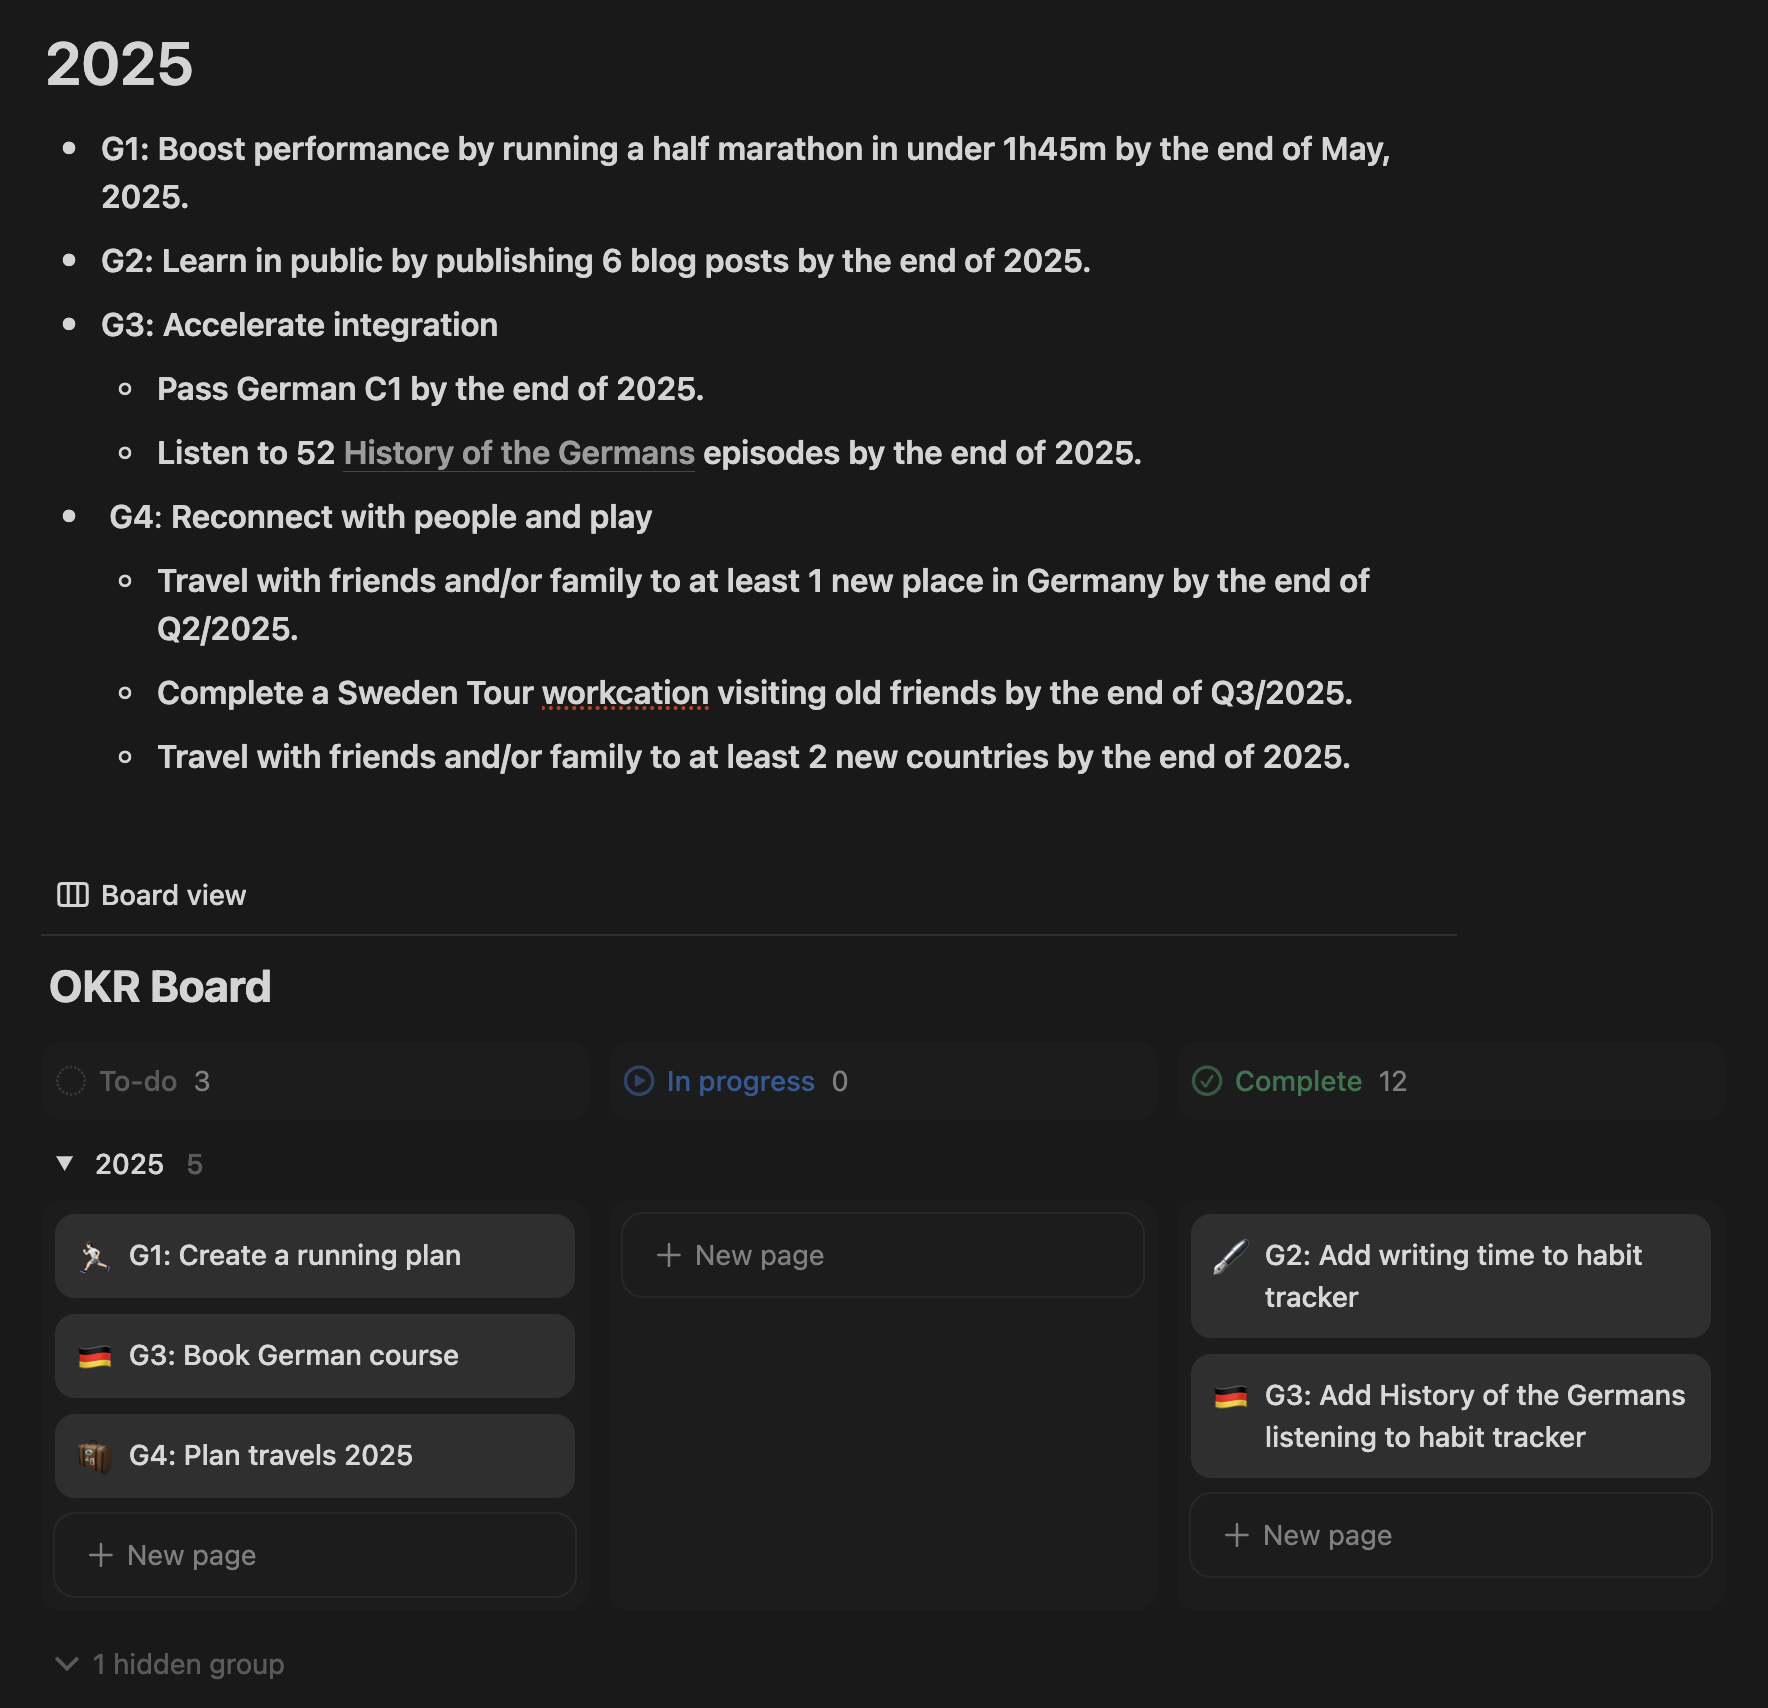
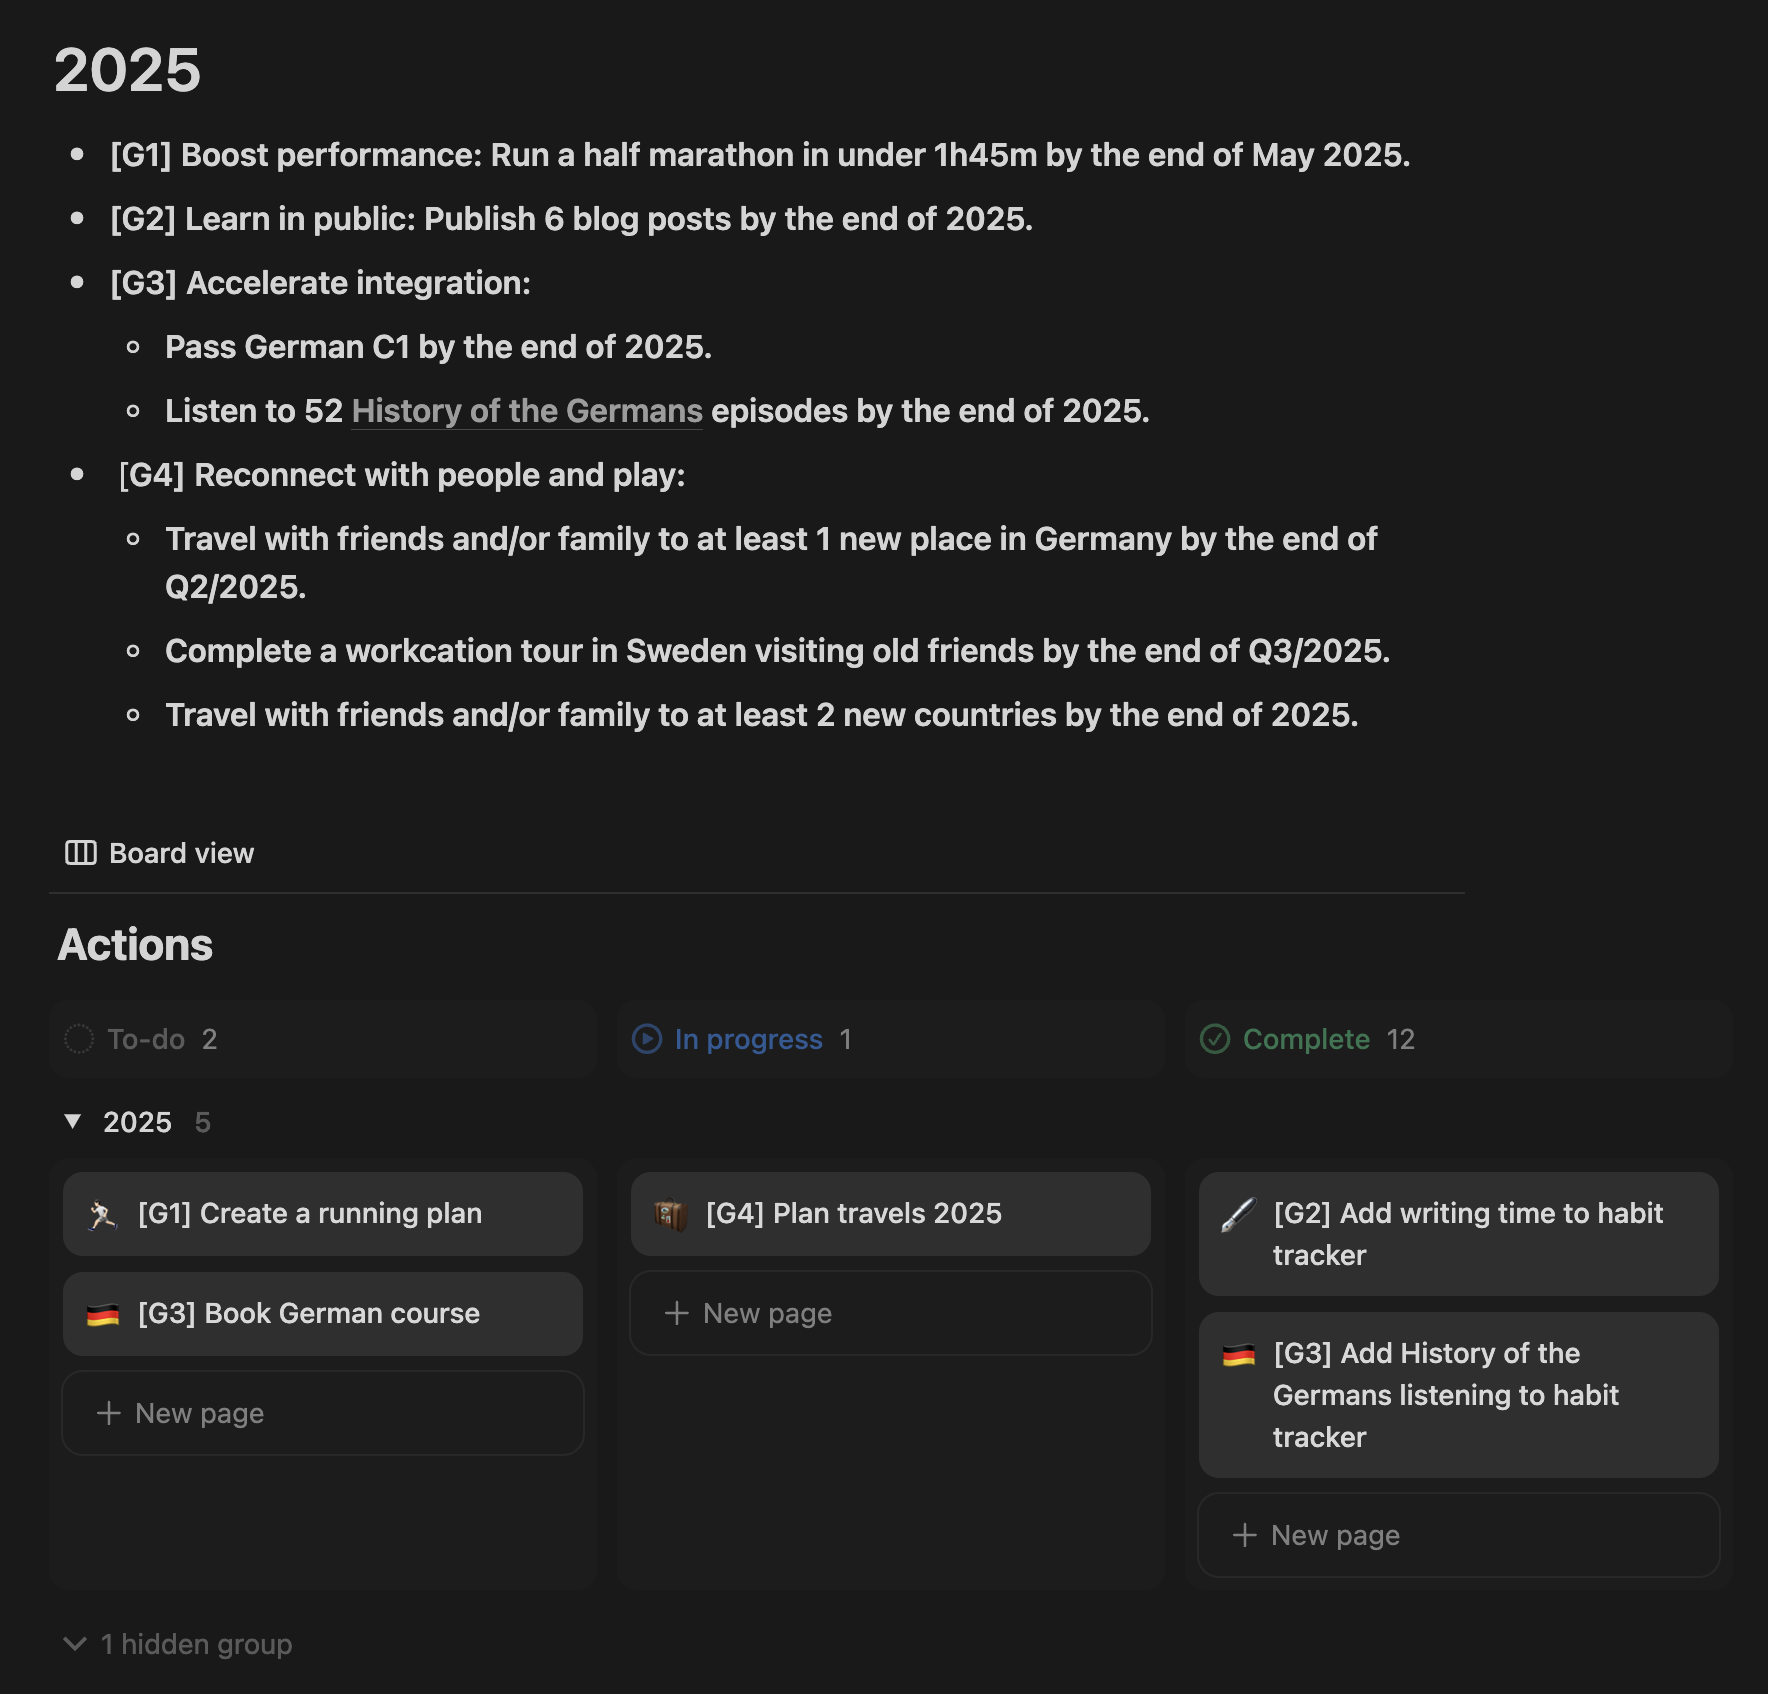
feat: edit goals 2025 post

diff --git a/content/on/goals-2025.md b/content/on/goals-2025.md
@@ -1,5 +1,5 @@
 +++
-title = '2024 in review and goals for 2025'
+title = 'Annual review 2024/25'
 date = 2024-12-29T10:34:58+01:00
 tags = ['Personal Growth', 'Annual Review']
 summary = 'Reviewing how I progressed on my 2024 goals and setting the focus for 2025.'
@@ -10,57 +10,57 @@ draft = false
 >
 > -- Dwight Eisenhower
 
-Planning ahead is not trivial, and it's easy to get the goals wrong, but the exercise of reflecting and setting goals is valuable in itself. There are many ways to do this, and I've previously written about [the process](/on/setting-goals-for-2024/#process) I follow. Doing this in public helps to keep me accountable.
+Planning ahead is not trivial, and it's easy to get the goals wrong, but the exercise of reflecting and setting goals is valuable in itself. There are many ways to do this, and I've previously written about [the process](/on/goals-2024/#process) I follow. Doing this in public helps to keep me accountable.
 
-My primary [focus for 2024](/on/setting-goals-for-2024/#goals-2024) was to establish healthy routines to strengthen my resilience, improve my well-being, and further my career. It turned out to be a turbulent year and I had to adjust my plan and deprioritize a few goals, but looking back, I'm happy with the overall progress.
+My primary [focus for 2024](/on/goals-2024/#goals-2024) was to establish healthy routines to strengthen my resilience, improve my well-being, and further my career. It turned out to be a turbulent year and I had to adjust my plan and deprioritize a few goals, but looking back, I'm happy with the overall progress.
 
 ## Review: Goals 2024
 
-- **[GROWTH] Publish 1 blog post per month on average.**
+- **[ <span style="font-size: 10px;background-color: darkseagreen;">GROWTH</span> ] Publish 1 blog post per month on average.**
 
-<span style="color: red;">42% completed.</span>
+Completion: <span style="color: red;">42%</span>
 
 I kept the routine of writing regularly during Q1 but then dropped it as work consumed an increasing amount of my time. I'll carry over this goal into 2025 and make another attempt, but lower my target to 6 posts during the year.
 
-- **[GROWTH]** **Read 3 self-help books on self-esteem, social anxiety, and perfectionism.**
+- **[ <span style="font-size: 10px;background-color: darkseagreen;">GROWTH</span> ]** **Read 3 self-help books on self-esteem, social anxiety, and perfectionism.**
 
-<span style="color: red;">33% completed.</span>
+Completion: <span style="color: red;">33%</span>
 
 I only read one of the books, the one on self-esteem, and it was helpful. In fact, it helped me work on some limiting behaviors and now I feel it's not a prioritized area anymore. Perhaps I'll return to the other books in the future, but for now I'll drop the goal on behalf of other priorities.
 
-- **[WORK] Have one work-free day per weekend and proper lunch breaks.**
+- **[ <span style="font-size: 10px;background-color: silver;">WORK</span> ] Have one work-free day per weekend and proper lunch breaks.**
 
-<span style="color: red;">40% completed.</span>
+Completion: <span style="color: red;">40%</span>
 
-I didn't track this so the completion rate is an assessment (note to self to ensure the goals are measurable). The objective was however to include more self-care and breaks during normal work. For most of the year I didn't manage due to a variety of reasons, but I've worked more actively by adjusting my routines and recently it's become better. I'll drop it as a goal since I don't track it but I might rephrase.
+I didn't track this so the completion rate is an assessment (note to self to ensure the goals are measurable). The objective was to include more self-care and breaks during normal work. For most of the year I didn't manage due to a variety of reasons, but I've worked more actively by adjusting my routines and recently it's become better. I'll drop it as a goal since I don't track it but I might rephrase.
 
-- **[WORK] Explore the manager role again.**
+- **[ <span style="font-size: 10px;background-color: silver;">WORK</span> ] Explore the manager role again.**
 
-<span style="color: green;">100% completed.</span>
+Completion: <span style="color: green;">100%</span>
 
 Due to some changes at work I got the opportunity to transition back to the managerial track in the beginning of the year. It's been both daunting and exciting, but I'm grateful for all the support I've received and everything I've learned. I'm enjoying the track and set to stay on it for the foreseeable future.
 
-- **[HEALTH]** **Drink a maximum of 5 drinks per week on average.**
+- **[ <span style="font-size: 10px;background-color: lightcoral;">HEALTH</span> ]** **Drink a maximum of 5 drinks per week on average.**
 
-<span style="color: green;">80% completed.</span>
+Completion: <span style="color: green;">80%</span>
 
 I maintained much healthier baseline for drinking, and I feel much better and more productive. My relationship to alcohol has changed profoundly, so I consider this goal completed. I'll keep tracking my drinking but I'll transition the goal to business as usual.
 
-- **[RELATIONSHIPS]** **Do a minimum of 2 out-of-routine experiences per month on average with my partner.**
+- **[ <span style="font-size: 10px;background-color: lightskyblue;">RELATIONSHIPS</span> ]** **Do a minimum of 2 out-of-routine experiences per month on average with my partner.**
 
-<span style="color: green;">90% completed.</span>
+Completion: <span style="color: green;">90%</span>
 
 It feels good to have taken a more active stance to evolve our relationship by trying new wines and restaurants, going to sports event and concerts, and traveling more. After having worked on this deliberately this has become a standard and business as usual.
 
-- **[PLAY] Play the trumpet for 30 minutes weekly.**
+- **[ <span style="font-size: 10px;background-color: violet;">PLAY</span> ] Play the trumpet for 30 minutes weekly.**
 
-<span style="color: red;">43% completed.</span>
+Completion: <span style="color: red;">43%</span>
 
 I kept the routine for most parts of the first half of the year but then it slowly became less and less. This was an example of making something that should be fun and joyful feel like a burden after setting goals around the routine. I'll drop it as a goal but hopefully pick up the trumpet from time to time nevertheless.
 
-- **[WEALTH] Save at least 45% of my net salary per month.**
+- **[ <span style="font-size: 10px;background-color: gold;">WEALTH</span> ] Save at least 45% of my net salary per month.**
 
-<span style="color: green;">100% completed.</span>
+Completion: <span style="color: green;">100%</span>
 
 I've found a good and low-effort set up where I use a [budget](https://www.revolut.com/best-budget-planner/) to manage my cash flow, which I've centralized in my [Revolut](https://revolut.com/referral/?referral-code=carljot90w!DEC1-24-VR-DE) account. My savings are automated using [Lysa](https://signup.lysa.se/de?inviteId=_eazcG89R0CGpeMdEAGaJA).
 
@@ -70,17 +70,17 @@ While I'll keep saving I won't keep it as an explicit goal for 2025 since this a
 
 2024 was an intense year professionally, with a lot of growth. However, that growth demanded time and energy, and to some extent the growth came at the expense of play, relationships and health. Therefore, for 2025, I'd like to focus on those areas and non-work-related growth.
 
-- [ <span style="font-size: 10px;background-color: lightcoral;">HEALTH</span> ] **Boost performance by running a half marathon in under 1h45m by the end of May, 2025.**
+- **[ <span style="font-size: 10px;background-color: lightcoral;">HEALTH</span> ] _Boost performance:_ Run a half marathon in under 1h45m by the end of May 2025.**
 
 In addition to my self-care routines with weekly goals around exercise, yoga, and meditation, I've decided to make 2025 the year when I run with more focus. Previous half-marathons my goal was always to 'just' finish. Now I'm aiming higher.
 
 Side note: I recently got on the [WHOOP](https://join.whoop.com/98D316FE) train and I'm loving it. It's too early to have a solid baseline, but I might set new health goals based on those metrics later.
 
-- [ <span style="font-size: 10px;background-color: darkseagreen;">GROWTH</span> ] **Learn in public by publishing 6 blog posts by the end of 2025.**
+- **[ <span style="font-size: 10px;background-color: darkseagreen;">GROWTH</span> ] _Learn in public:_ Publish 6 blog posts by the end of 2025.**
 
-Carryover from last year. I enjoy writing and it helps me think, so I will take a new stab at this.
+Carryover from last year. I enjoy writing, it helps me think, learn, and combat perfectionism, so I will take a new stab at this.
 
-- [ <span style="font-size: 10px;background-color: darkseagreen;">GROWTH</span> ] **Accelerate integration**
+- **[ <span style="font-size: 10px;background-color: darkseagreen;">GROWTH</span> ] _Accelerate integration:_**
 
   - **Pass German C1 by the end of 2025.**
 
@@ -88,11 +88,11 @@ Carryover from last year. I enjoy writing and it helps me think, so I will take 
 
 I've been in Germany for a long time now but my integration has stagnated. I work in an international context and don't speak German with my partner, so I need to take deliberate action to speed this up. The critical step is to learn German once and for all.
 
-- [ <span style="font-size: 10px;background-color: lightskyblue;">RELATIONSHIPS</span> | <span style="font-size: 10px;background-color: khaki;">PLAY</span> ] **Reconnect with people and play**
+- **[ <span style="font-size: 10px;background-color: lightskyblue;">RELATIONSHIPS</span> | <span style="font-size: 10px;background-color: violet;">PLAY</span> ] _Reconnect with people and play:_**
 
   - **Travel with friends and/or family to at least 1 new place in Germany by the end of Q2/2025.**
 
-  - **Complete a Sweden Tour workcation visiting old friends by the end of Q3/2025.**
+  - **Complete a workcation tour in Sweden visiting old friends by the end of Q3/2025.**
 
   - **Travel with friends and/or family to at least 2 new countries by the end of 2025.**
 
@@ -100,8 +100,8 @@ I want to invest more in my relationships and what better way than to do that th
 
 ## Execute: Action plan
 
-With actions the above goals would simply be a wishlist. Working backwards from the goals above I can outline a few milestones I need to reach on the journey and more importantly, the first steps to take. I manage the tasks in Notion (see screenshot below) and I've scheduled a monthly review session to assess my progress and course correct if necessary.
+Without actions goals are wishes. Working backwards from the goals I figure out a plan of action that I manage the tasks in Notion (see screenshot below) and I've scheduled a monthly review to assess my progress and course correct if necessary.
 
-Let's go 2025!
+Let's go 2025! 🚀
 
 [![goals-2025.png](/goals-2025/goals-2025.png)](/goals-2025/goals-2025.png)
